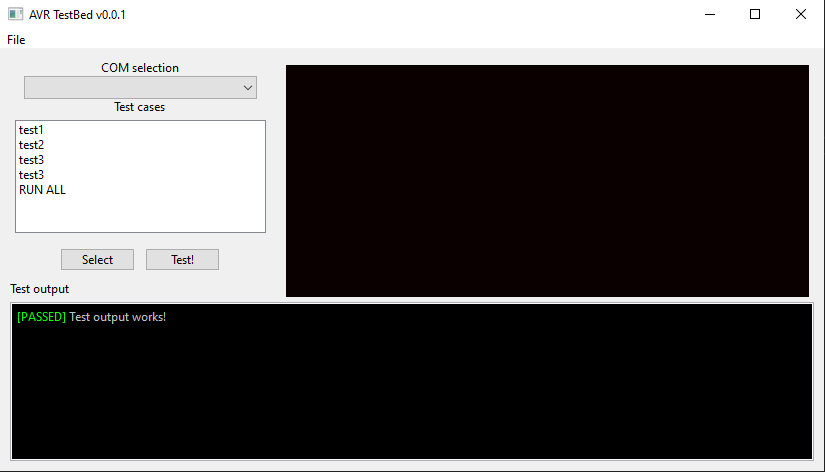
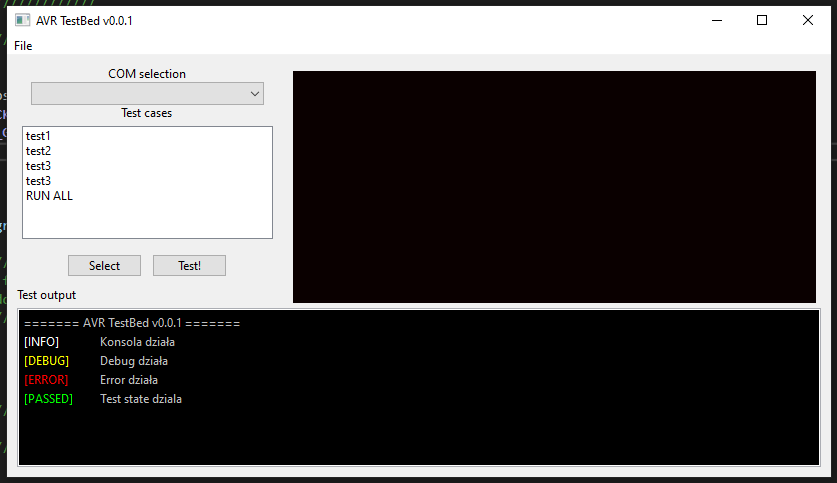
Logs

Changed region(s): [[0.0, 0.0, 1.0, 1.0], [0.0909, 0.5339, 0.1818, 0.5636], [0.2121, 0.5339, 0.2727, 0.5636]]

diff --git a/PC/TestBedGUI/GUI/GUIManager.cpp b/PC/TestBedGUI/GUI/GUIManager.cpp
@@ -1,8 +1,90 @@
 #include "GUIManager.hpp"
 
+// kinda cheaty way to make everything work, functions used by wxWidgets are 
+// deprecated thus VS complains about it
+#pragma warning(disable : 4996)
+#include "MainWindow.hpp"
+
+#include <cstdio>
+
 namespace tb
 {
+    // #doinWhatICanNotToIncludeWxWidgetsInHpp
+    static void PrintConsole(
+        const std::string& message,
+        LogLevel llvl,
+        const wxColour* color)
+    {
+        wxRichTextCtrl* terminal = MainWindow::GetInstance()->GetTerminal();
+        char logPrefix[20];
+        std::string logLabel;
 
+        switch (llvl)
+        {
+        case LogLevel::INFO:
+            sprintf_s(logPrefix, "[INFO]\t\t");
+            break;
+        case LogLevel::ERR:
+            sprintf_s(logPrefix, "[ERROR]\t");
+            break;
+        case LogLevel::DEBUG:
+            sprintf_s(logPrefix, "[DEBUG]\t");
+            break;
+        }
 
+        logLabel = logPrefix;
+
+        terminal->SetDefaultStyle(wxTextAttr(*color));
+        terminal->WriteText(logLabel);
+        terminal->SetDefaultStyle(wxTextAttr(*wxLIGHT_GREY));
+        terminal->WriteText(message);
+        terminal->Newline();
+    }
+
+    void GUIManager::SetLoggingLevel(const LogLevel llvl)
+    {
+        logLvl.set((unsigned)llvl);
+    }
+
+    void GUIManager::PrintConsoleInfo(const std::string& message)
+    {
+        if (logLvl.test((unsigned)LogLevel::INFO))
+            PrintConsole(message, LogLevel::INFO, wxWHITE);
+    }
+
+    void GUIManager::PrintConsoleError(const std::string& message)
+    {
+        if (logLvl.test((unsigned)LogLevel::ERR))
+            PrintConsole(message, LogLevel::ERR, wxRED);
+    }
+
+    void GUIManager::PrintConsoleDebug(const std::string& message)
+    {
+        if (logLvl.test((unsigned)LogLevel::DEBUG))
+            PrintConsole(message, LogLevel::DEBUG, wxYELLOW);
+    }
+
+    void GUIManager::PrintTestState(const std::string& message, const TestResult result)
+    {
+        wxRichTextCtrl* terminal = MainWindow::GetInstance()->GetTerminal();
+        char labelBuff[15] = { 0 };
+
+        if (result == TestResult::PASS)
+        {
+            sprintf_s(labelBuff, "[PASSED]\t");
+            terminal->SetDefaultStyle(wxTextAttr(*wxGREEN));
+            terminal->WriteText(labelBuff);
+        }
+        else
+        {
+            sprintf_s(labelBuff, "[FAILED]\t");
+            terminal->SetDefaultStyle(wxTextAttr(*wxRED));
+            terminal->WriteText(labelBuff);
+        }
+
+        terminal->SetDefaultStyle(wxTextAttr(*wxLIGHT_GREY));
+        terminal->WriteText(message);
+        terminal->Newline();
+    }
 
 } // namespace tb

diff --git a/PC/TestBedGUI/GUI/MainWindow.cpp b/PC/TestBedGUI/GUI/MainWindow.cpp
@@ -5,9 +5,20 @@ namespace tb
 {
 	constexpr char _WINDOW_TITLE[] = "AVR TestBed v0.0.1"; 
 
+	MainWindow* MainWindow::instance = nullptr;
+
 MainWindow::MainWindow() : wxFrame(
 	nullptr, wxID_ANY, _WINDOW_TITLE, wxDefaultPosition, wxSize(840, 480))
 {
+	if (instance == nullptr)
+	{
+		instance = this;
+	}
+	else
+	{
+		return;
+	}
+
 	constexpr int HSpacing		= 2;
 	constexpr int VSpacing		= 2;
 	constexpr int BorderWidth	= 5;
@@ -36,6 +47,7 @@ MainWindow::MainWindow() : wxFrame(
 	menu->Append(fileMenu, "File");
 
 	Bind(wxEVT_MENU, &MainWindow::OnQuit, this, wxID_EXIT);
+	//Bind();
 
 	////////////////////////////////////////////////////////////////
 	// COM port selection field
@@ -66,10 +78,11 @@ MainWindow::MainWindow() : wxFrame(
 	terminalWindow = new wxRichTextCtrl(
 		background, wxID_ANY, wxEmptyString, wxDefaultPosition, wxDefaultSize, wxRE_READONLY | wxRE_MULTILINE);
 	terminalWindow->SetBackgroundColour(wxColour(*wxBLACK));
-	terminalWindow->SetDefaultStyle(wxTextAttr(*wxGREEN));
-	terminalWindow->WriteText("[PASSED] ");
 	terminalWindow->SetDefaultStyle(wxTextAttr(*wxLIGHT_GREY));
-	terminalWindow->WriteText("Test output works!");
+	terminalWindow->WriteText("======= ");
+	terminalWindow->WriteText(_WINDOW_TITLE);
+	terminalWindow->WriteText(" =======");
+	terminalWindow->Newline();
 	wxStaticText* terminalLabel = new wxStaticText(background, wxID_ANY, "Test output");
 
 	////////////////////////////////////////////////////////////////

diff --git a/PC/TestBedGUI/GUI/GUIManager.hpp b/PC/TestBedGUI/GUI/GUIManager.hpp
@@ -2,6 +2,7 @@
 
 #include <string>
 #include <functional>
+#include <bitset>
 
 namespace tb
 {
@@ -19,8 +20,9 @@ enum class LogLevel : unsigned
 {
 	TC_RESULT_ONLY,		/* Print only wheather test passed or failed */
 	INFO,				/* Print [INFO] messages, general info, may be in relase version */
-	ERROR,				/* Print [ERROR] messages, for more precise info about test fail reason */
-	DEBUG				/* Print [DEBUG] messages, for debugging, turn off for relase */
+	ERR,				/* Print [ERROR] messages, for more precise info about test fail reason */
+	DEBUG,				/* Print [DEBUG] messages, for debugging, turn off for relase */
+	NUM_OF_OPTIONS
 };
 
 enum class TestResult : unsigned
@@ -33,7 +35,7 @@ class GUIManager
 {
 public:
 	//////////////////////////////////////////////////////
-	// Print to GUI "console" window
+	// Print to GUI's "console" window
 	//////////////////////////////////////////////////////
 	void SetLoggingLevel(const LogLevel llvl);
 	void PrintConsoleInfo(const std::string& message);
@@ -54,6 +56,10 @@ public:
 	// TODO: add menu option for this xD
 	void SaveTestLogToFile(const std::string& fileName);
 	void ClearTestCasesTable();
+
+private:
+	// Is this even necessary? lul
+	std::bitset<(size_t)LogLevel::NUM_OF_OPTIONS> logLvl = 0xf;
 };
 
 } //namespace tb

diff --git a/PC/TestBedGUI/GUI/MainWindow.hpp b/PC/TestBedGUI/GUI/MainWindow.hpp
@@ -23,7 +23,15 @@ class MainWindow : public wxFrame
 public:
 	MainWindow();
 
+	static MainWindow* GetInstance() { return instance; }
+
+	wxRichTextCtrl* GetTerminal() { return terminalWindow; }
+	wxChoice* GetCOMList() { return COMsel; }
+
+
 private:
+	static MainWindow* instance;
+
 	wxButton* beginTestB = nullptr;
 	wxRichTextCtrl* terminalWindow = nullptr;
 	wxChoice* COMsel = nullptr;

diff --git a/PC/TestBedGUI/GUI/Launcher.hpp b/PC/TestBedGUI/GUI/Launcher.hpp
@@ -12,7 +12,7 @@ public:
 	virtual bool OnInit() override;
 
 private:
-	MainWindow* mainFrame = nullptr;
+	MainWindow* mainFrame;
 };
 
 } // namespace tb
